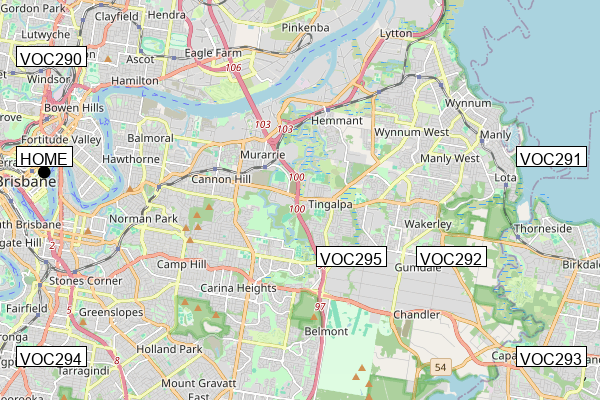
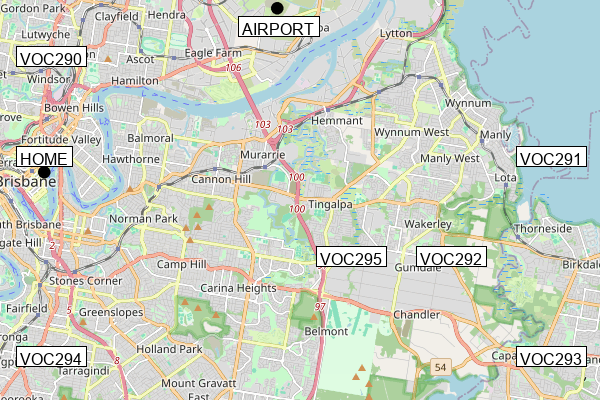
Added AIRPORT Tag and dot

Changed region(s): [[0.39, 0.0, 0.54, 0.09]]

diff --git a/src/Services/map.py b/src/Services/map.py
@@ -10,6 +10,10 @@ def generateMap (flights):
     # Add a marker for home (longitude FIRST then latitude)
     marker = CircleMarker((153.030000, -27.466500), 'black', 12)  # Tingalpa
     m.add_marker(marker)
+
+    # Add a marker for Airport (longitude FIRST then latitude)
+    marker = CircleMarker((153.11, -27.4165), 'black', 12)  # Tingalpa
+    m.add_marker(marker)
     
 
     # Render the map to an image
@@ -31,7 +35,29 @@ def generateMap (flights):
     text_x = 20
     text_y = 150
 
-        # Get text bounding box
+    # Get text bounding box
+    bbox = draw.textbbox((text_x, text_y), text, font=font)
+    text_w = bbox[2] - bbox[0]
+    text_h = bbox[3] - bbox[1]
+
+    # Draw rectangle
+    padding = 4
+    box_coords = [
+        (text_x - padding, text_y - padding),
+        (text_x + text_w + padding, text_y + text_h + padding)
+    ]
+    draw.rectangle(box_coords, fill="white", outline="black")
+
+    # Draw text
+    draw.text((text_x, text_y), text, font=font, fill="black")
+
+    #draw AIRPORT Box
+    #set name and pixel position
+    text = "AIRPORT"
+    text_x = 242
+    text_y = 20
+
+    # Get text bounding box
     bbox = draw.textbbox((text_x, text_y), text, font=font)
     text_w = bbox[2] - bbox[0]
     text_h = bbox[3] - bbox[1]
